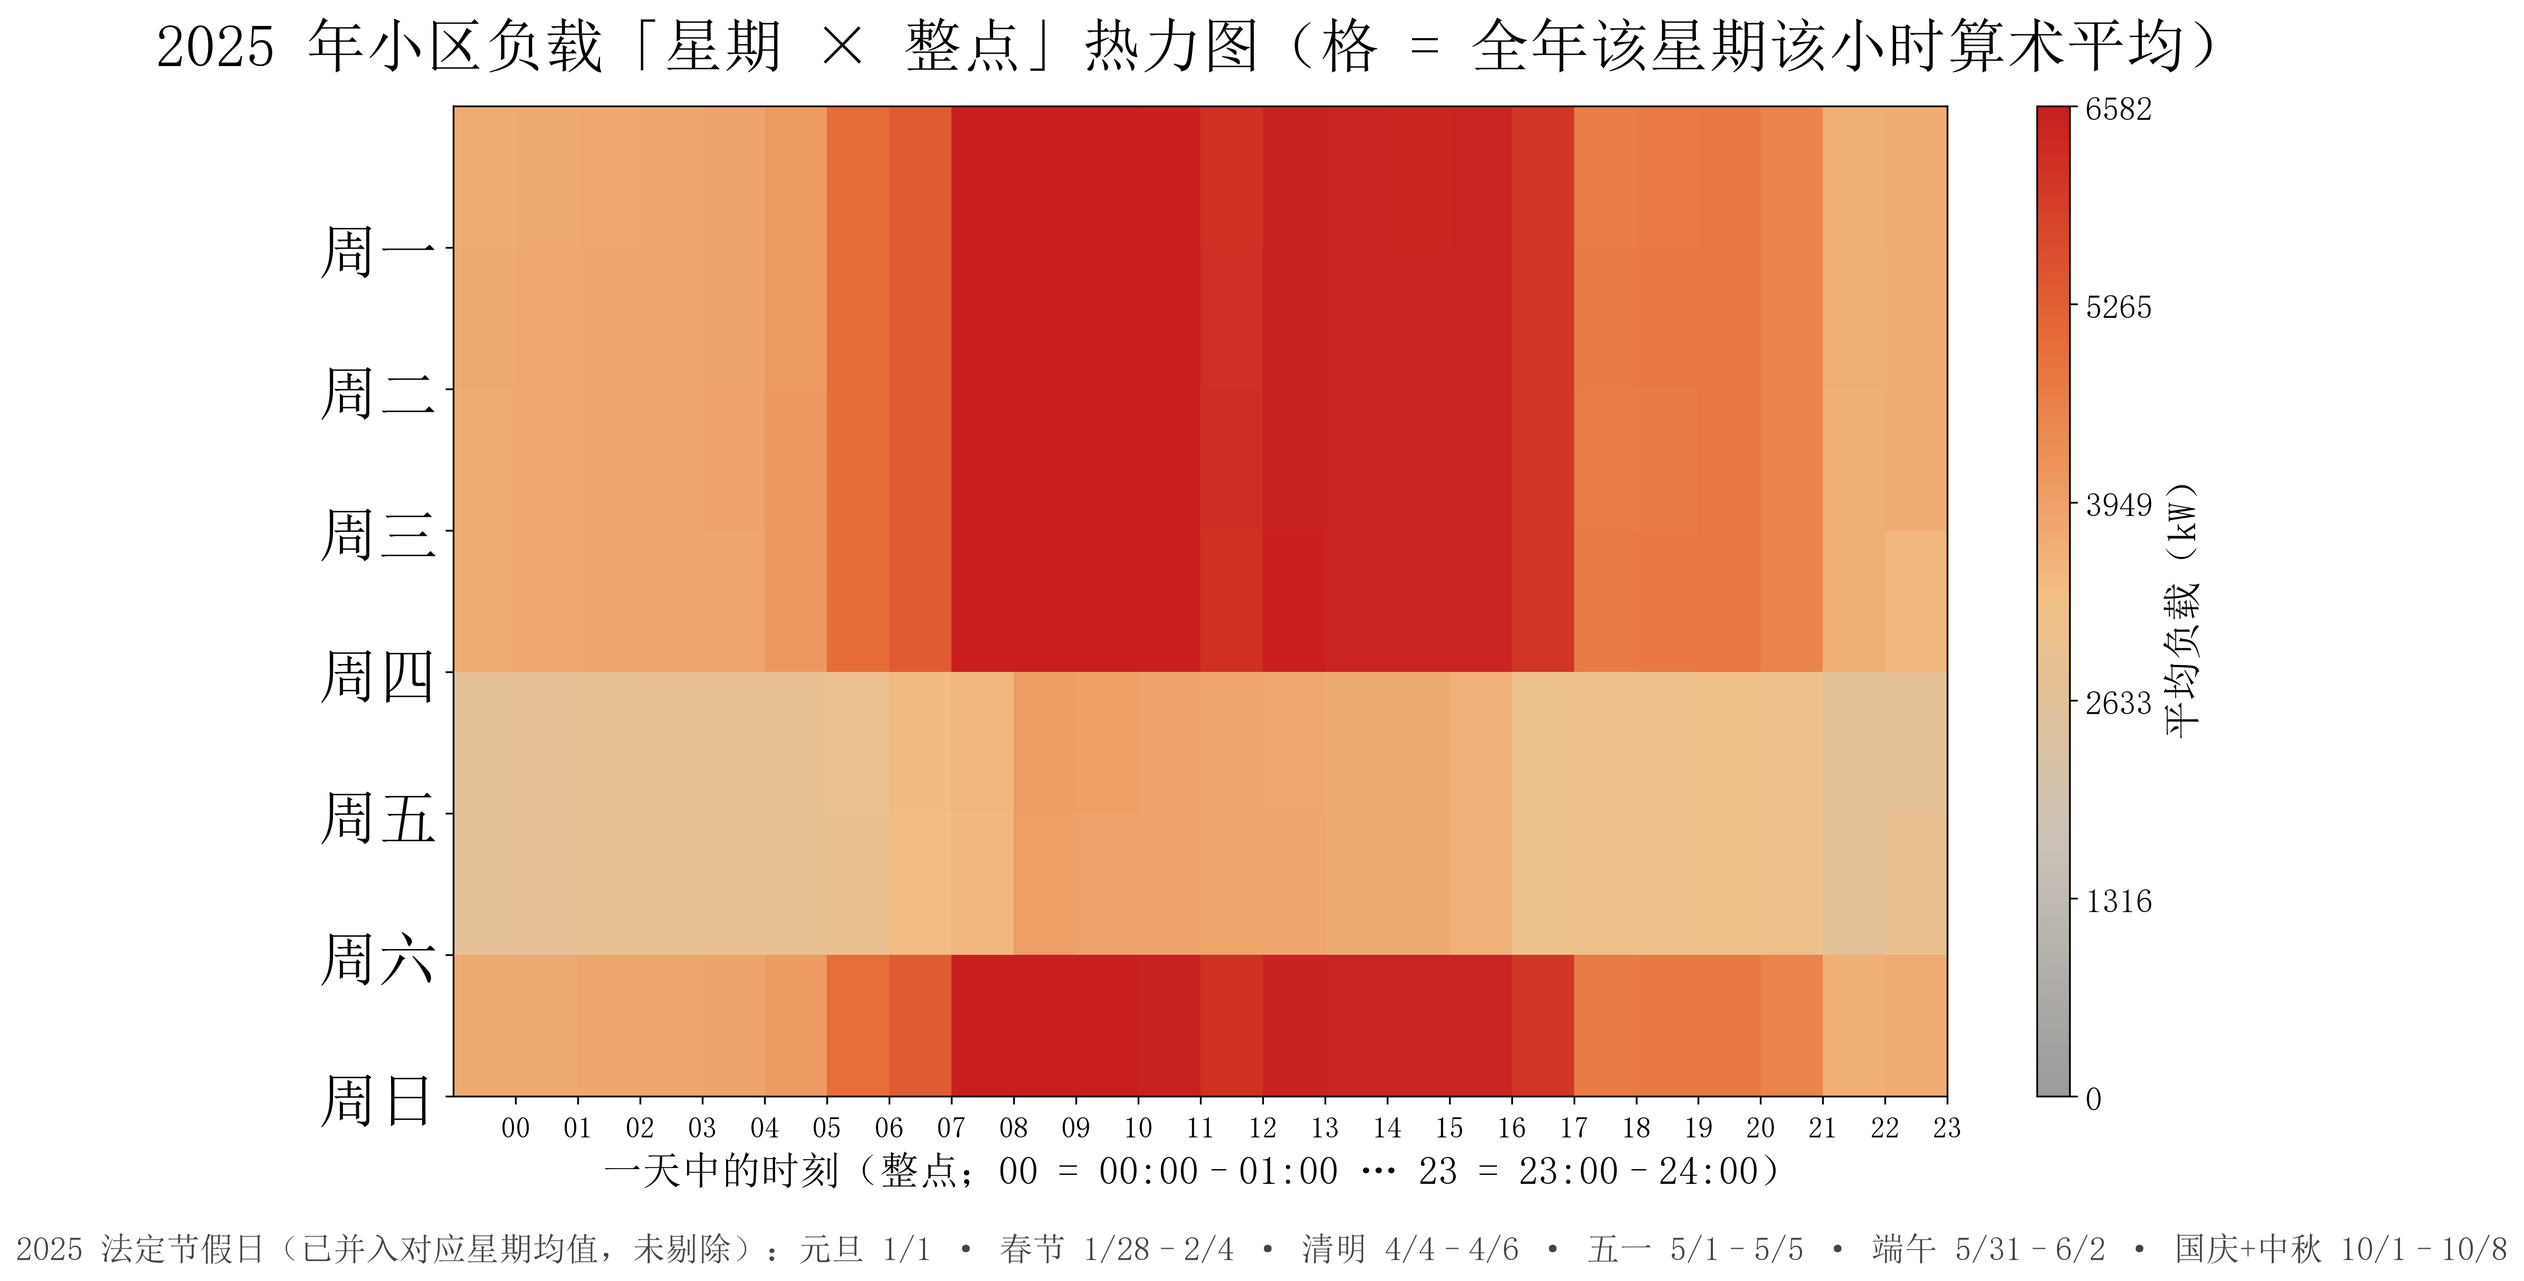
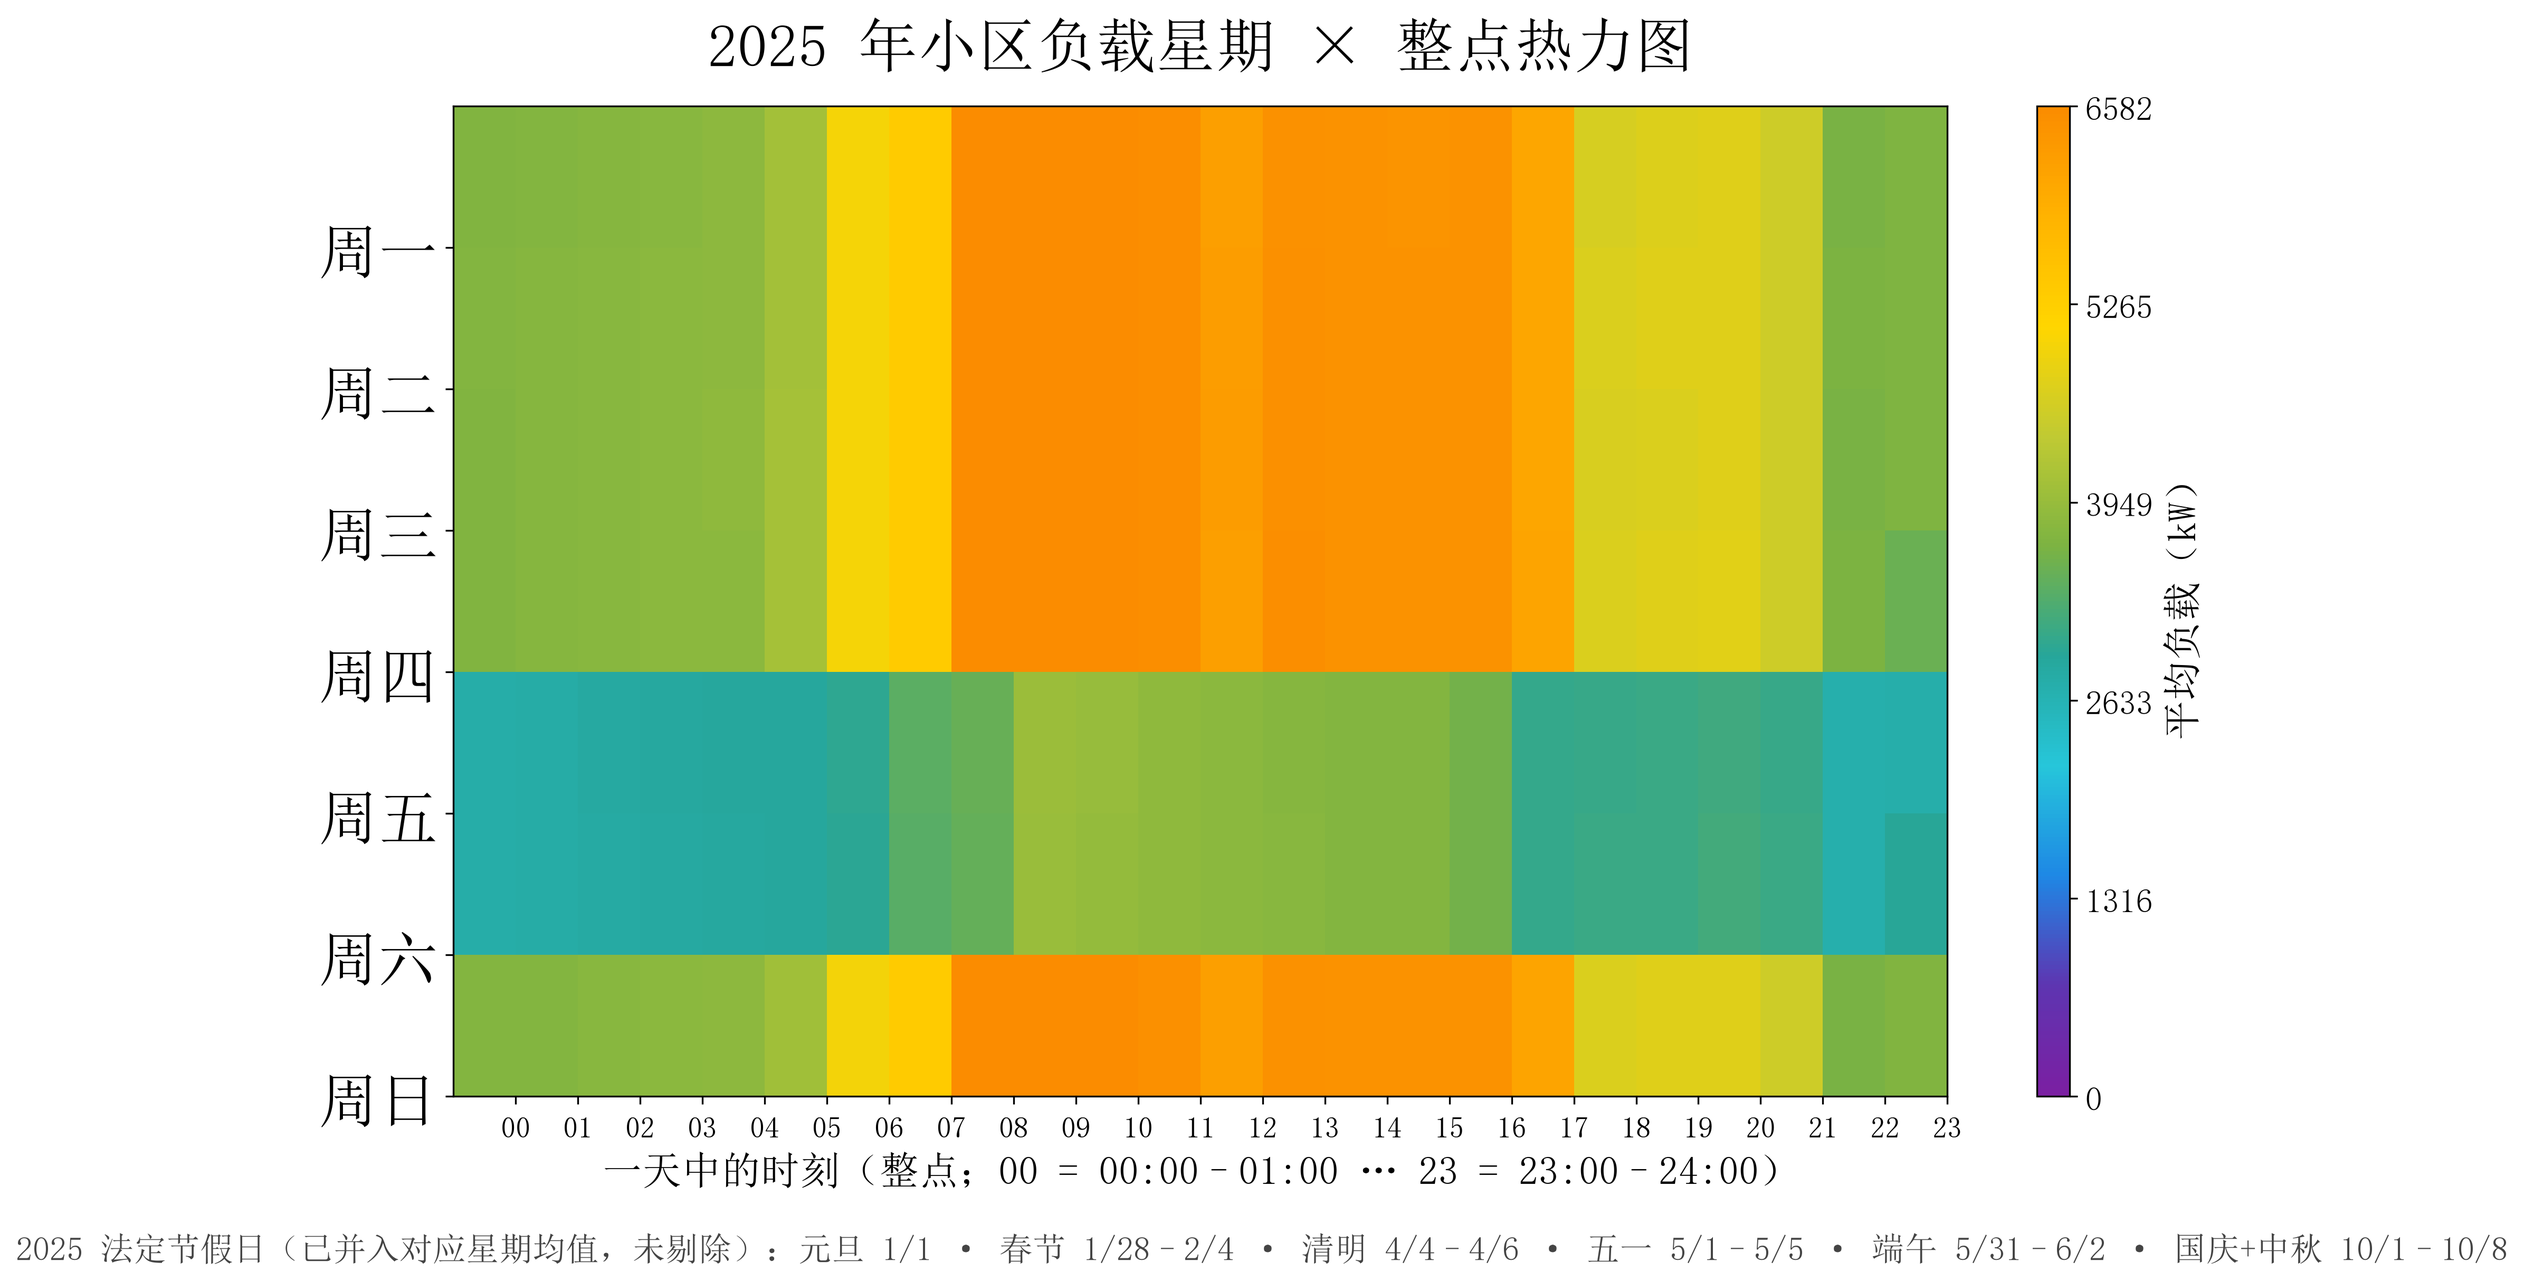
同步：Q2 图片与脚本更新

diff --git a/Q2/问题二_光伏与负载热力图.py b/Q2/问题二_光伏与负载热力图.py
@@ -30,8 +30,8 @@ SEASON_OF_MONTH = {
 SEASON_ANGLE_DEG = {"冬": 15, "春": 105, "夏": 195, "秋": 285}   # 四季中心（四个对角）
 SEASON_BOUND_DEG = [60, 150, 240, 330]                    # 季与季之间的分界线（粗）
 
-# 色标：vmax 压到“白天有光照”区间，让夏季饱和到红端、冬季落在冷色端
-VMAX_AUTO  = True        # True=按“冬季白天 P90”自动；False=用 VMAX_FIXED
+# 色标：vmax 取“全年白天 P99”，只有夏季（左下角）强光时段饱和到橙端、突出夏季光照最强
+VMAX_AUTO  = True        # True=按“全年白天 P99”自动；False=用 VMAX_FIXED
 VMAX_FIXED = 4000.0     # kW，VMAX_AUTO=False 时使用
 DAYLIGHT   = slice(36, 114)   # 白天 06:00–18:50（10 分钟 slot 36..113），用于统计与定 vmax
 
@@ -86,15 +86,14 @@ print(f"数据源：{XLSX} [{pv_sheet}]")
 print(f"日期数：{n_days}，每天时段数：{n_slots}")
 print(f"光伏全年范围：[{values.min():.4f}, {values.max():.4f}] kW")
 
-# 色标 vmax（数据驱动，让夏季饱和、冬季铺满下段 → 放大季节差异）
+# 色标 vmax（数据驱动）：取全年白天 P99 —— 仅夏季强光时段触及橙端、突出左下角夏季区
 if VMAX_AUTO:
-    winter_mask = np.isin(months_of_day, [12, 1, 2])
-    winter_day = values[winter_mask][:, DAYLIGHT].ravel()
-    winter_day = winter_day[winter_day > 0]
-    VMAX = float(np.quantile(winter_day, 0.90))
+    day_all = values[:, DAYLIGHT].ravel()          # 全年白天 06:00–18:50 全部时段
+    day_all = day_all[np.isfinite(day_all)]
+    VMAX = float(np.quantile(day_all, 0.99))
 else:
     VMAX = float(VMAX_FIXED)
-print(f"色标范围：[0, {VMAX:.1f}] kW（{'自动=冬季白天 P90' if VMAX_AUTO else '固定'}）；0 kW=冷端（蓝）、强光=红端（蓝→红彩色过渡）")
+print(f"色标范围：[0, {VMAX:.1f}] kW（{'自动=全年白天 P99，夏季强光饱和到橙端' if VMAX_AUTO else '固定'}）；0 kW=浅灰端（黑夜无光）、非线性分段色阶：中低值加密、高值黄橙拉开；色标刻度数字已隐藏")
 
 # 每季白天典型功率（供报告引用“夏/冬典型峰谷”）
 for sname in ["冬", "春", "夏", "秋"]:
@@ -114,17 +113,26 @@ theta_edges = theta_edges / theta_edges[-1] * 2 * np.pi    # 归一到 [0, 2π]
 inner_radius, outer_radius = 1.5, 3.0
 radius_edges = np.linspace(inner_radius, outer_radius, n_slots + 1)
 
-# ---------- 数据 → 网格 + 冷→热彩色带（0 kW=冷端蓝，强光=热端红，全程有色相、无灰）----------
-C = values.T                                                # (时段, 天)
-Cm = C                                                     # 不 mask；0 落在冷端蓝，与色标图例一致
-
-# 冷（深蓝）→ 蓝 → 青 → 黄绿 → 黄 → 橙 → 热（红/深红）；顶端红，无灰
+# ---------- 非线性分段色带（橙→浅灰）：低值=浅灰（黑夜/0 kW），中间青绿收窄加密，高值黄橙拉开 ----------
+# 分段位置手工控制：0~15% 浅灰（黑夜/弱光）→ 15~40% 灰蓝→蓝→青→绿（收窄）
+# → 40~62% 黄绿过渡（中低值加密，光伏出力大部分集中于此）→ 62~100% 黄→橙→深橙（高功率拉开）
 cmap = LinearSegmentedColormap.from_list(
-    "cold2hot_pv",
-    ["#0b1e6f", "#1e88e5", "#26c6da", "#aeea00", "#ffd600", "#fb8c00", "#e53935", "#b71c1c"],
+    "pv_piecewise_orange",
+    [
+        (0.00, "#9e9e9e"), (0.08, "#8a8a8a"), (0.15, "#7f92bd"),
+        (0.22, "#64b5f6"), (0.30, "#26c6da"), (0.38, "#26a69a"),
+        (0.46, "#66bb6a"), (0.54, "#9ccc65"), (0.62, "#c0ca33"),
+        (0.70, "#ffd600"), (0.78, "#ffc107"), (0.86, "#ffa000"),
+        (0.93, "#fb8c00"), (1.00, "#f4511e"),
+    ],
     N=256,
 )
-cmap.set_bad("#0b1e6f")   # 保险：任何残留 mask 也归到冷端蓝（非灰）
+cmap.set_bad("#9e9e9e")   # 保险：任何残留 mask 也归到灰色端（黑夜）
+
+# ---------- 数据 → 网格 + 彩色带（黑夜/0 kW=浅灰端，昼夜分界一眼看清）----------
+C = values.T                                                # (时段, 天)
+Cm = C                                                      # 不 mask；0（黑夜无光）落在色带浅灰端
+# 色带的非线性已由上面的分段位置控制，norm 用线性即可
 norm = Normalize(vmin=0.0, vmax=VMAX)
 
 
@@ -136,7 +144,7 @@ fig, ax = plt.subplots(
 )
 ax.set_theta_zero_location("N")
 ax.set_theta_direction(-1)
-ax.set_ylim(0, outer_radius + 0.9)          # 外圈留出季节标签空间
+ax.set_ylim(0, outer_radius + 1.10)         # 外圈留出更大的季节标签空间
 ax.grid(False)
 ax.spines["polar"].set_visible(False)
 
@@ -157,29 +165,35 @@ for a in map(np.deg2rad, SEASON_BOUND_DEG):   # 季界粗线
             color="white", linewidth=1.6, alpha=0.95)
 
 
-# ---------- 季节标签（四个角）与月份小标签 ----------
+# ---------- 季节标签（更靠外，与月份数字拉开距离）与月份数字 ----------
 lb_box = dict(facecolor="white", edgecolor="none", alpha=0.85, pad=2)
-for name, deg in SEASON_ANGLE_DEG.items():    # 四季大标签（外）
+for name, deg in SEASON_ANGLE_DEG.items():    # 四季大标签（最外圈）
     a = np.deg2rad(deg)
-    ax.text(a, outer_radius + 0.42, name,
+    ax.text(a, outer_radius + 0.80, name,
             ha="center", va="center",
             fontsize=27, fontweight="bold", color="#000000", bbox=lb_box)
-for m in range(1, 13):                        # 月份小标签（内）
+for m in range(1, 13):                        # 月份数字（无白底，向外挪一点）
     a = np.deg2rad((m - 0.5) * 30)
-    ax.text(a, outer_radius + 0.16, str(m),
+    ax.text(a, outer_radius + 0.20, str(m),
             ha="center", va="center",
-            fontsize=12, color="#000000", bbox=lb_box)
+            fontsize=22, fontweight="bold", color="#000000")
+
+# 去掉极角（度数）刻度信息（45°、135° 等无用标签）
+ax.set_xticks([])
+# 去掉径向默认刻度数字（0.5、1、1.5 等），时间圈线为手工绘制、无需刻度
+ax.set_yticks([])
 
 
-# ---------- 日内时间刻度 ----------
+# ---------- 日内时间刻度（仅 06/12/18，角度错开避免重叠；0点/24点标签去掉） ----------
 hours = np.array([0, 6, 12, 18, 24])
 time_radii = inner_radius + hours / 24 * (outer_radius - inner_radius)
-ax.set_yticks(time_radii)
-ax.set_yticklabels([f"{h:02d}:00" for h in hours], fontsize=13.5, color="#000000")
-ax.set_rlabel_position(80)
 
-for label in ax.get_yticklabels():
-    label.set_bbox(dict(facecolor="white", edgecolor="none", alpha=0.8, pad=1))
+time_label_angle = {6: 105, 12: 80, 18: 55}   # 三个时间标签角度错开（0=N 顺时针）
+for h, a_deg in time_label_angle.items():
+    r = inner_radius + h / 24 * (outer_radius - inner_radius)
+    ax.text(np.deg2rad(a_deg), r, f"{h:02d}:00",
+            ha="center", va="center", fontsize=14, color="#000000",
+            bbox=dict(facecolor="white", edgecolor="none", alpha=0.8, pad=1.5))
 
 circle_angles = np.linspace(0, 2 * np.pi, 721)
 for radius in time_radii:
@@ -188,26 +202,27 @@ for radius in time_radii:
 
 
 # ---------- 标题、中心说明和色标 ----------
-ax.text(0.5, 0.52, str(YEAR), transform=ax.transAxes,
+ax.text(0.5, 0.50, str(YEAR), transform=ax.transAxes,
         ha="center", va="center", fontsize=45, fontweight="bold")
-ax.text(0.5, 0.44, "小区光伏\n内 → 外：00:00 → 24:00",
-        transform=ax.transAxes, ha="center", va="center",
-        fontsize=16.5, linespacing=1.7)
 ax.set_title(f"{YEAR} 年小区光伏出力环形热力图",
              fontsize=27, pad=30)
 
 colorbar = fig.colorbar(mesh, ax=ax, pad=0.10, shrink=0.72, aspect=28)
 colorbar.set_label("光伏功率（kW）", fontsize=18)
-colorbar.set_ticks(np.linspace(0, VMAX, 6))
+colorbar.set_ticks([])          # 删除出力大小刻度数字，色带只作强弱示意
 
-ax.legend(handles=[Patch(facecolor="#0b1e6f", label="无光照 / 0 kW（冷端）")],
+ax.legend(handles=[Patch(facecolor="#9e9e9e", edgecolor="#000000", label="黑夜 / 无光照（0 kW，中灰）")],
           loc="lower left", bbox_to_anchor=(-0.05, -0.05), frameon=False)
 
 fig.savefig(OUTPUT, dpi=300, bbox_inches="tight", facecolor="white")    # 图1
+# 保存与弹窗同步：先落盘，立即非阻塞弹出窗口（无需关闭窗口等待）
+plt.show(block=False)
+plt.pause(0.5)
 
 
 # ============================================================
 #  图2：小区负载「星期 × 整点」热力图（7 × 24，格 = 全年该星期该小时均值）
+#  说明：网格图（图2）保持原样，不在本次修改范围内
 # ============================================================
 wb_l = openpyxl.load_workbook(XLSX, read_only=True)
 load_sheet = next(s for s in wb_l.sheetnames if "负载" in s)
@@ -241,13 +256,18 @@ for wd in range(7):
 LVMAX = float(np.quantile(L_hourly.ravel(), 0.90))
 WD_NAMES = ["周一", "周二", "周三", "周四", "周五", "周六", "周日"]
 print(f"\n[负载图] 数据源：{XLSX} [{load_sheet}]；7×24 格，格 = {YEAR} 全年该星期该小时均值")
-print(f"[负载图] 色标范围：[0, {LVMAX:.1f}] kW（全年负载 P90）；低负载=冷端（蓝）、高峰=红端（蓝→红彩色过渡）")
+print(f"[负载图] 色标范围：[0, {LVMAX:.1f}] kW（全年负载 P90）；低负载=紫端、高峰=橙端（与图1同一色相渐变色带）")
 for wd, wdn in enumerate(WD_NAMES):
     print(f"    {wdn}：日均 {load_avg[wd].mean():.1f} kW / 峰值 {load_avg[wd].max():.1f} kW")
 
-cmap2 = LinearSegmentedColormap.from_list("cold2hot_load",
-    ["#0b1e6f", "#1e88e5", "#26c6da", "#aeea00", "#ffd600", "#fb8c00", "#e53935", "#b71c1c"], N=256)
-cmap2.set_bad("#0b1e6f")
+# 图2 使用独立色带实例（同为橙→紫色相渐变，但与图1互不共享、标尺用负载自己的 LVMAX）
+cmap2 = LinearSegmentedColormap.from_list(
+    "hue_orange2purple_load",
+    ["#7b1fa2", "#5e35b1", "#1e88e5", "#26c6da", "#26a69a",
+     "#7cb342", "#c0ca33", "#ffd600", "#ffb300", "#fb8c00"],
+    N=256,
+)
+cmap2.set_bad("#7b1fa2")
 
 fig2, ax2 = plt.subplots(figsize=(12, 7.5), layout="constrained")
 im2 = ax2.imshow(load_avg, cmap=cmap2, norm=Normalize(0.0, LVMAX),
@@ -267,9 +287,12 @@ cbar2.ax.tick_params(labelsize=15)
 # 节假日标注（图下方一行，说明这些天已并入对应星期均值、未单独剔除）
 hol_line = f"2025 法定节假日（已并入对应星期均值，未剔除）：{HOLIDAYS_2025}"
 fig2.text(0.5, -0.03, hol_line, transform=fig2.transFigure,
-          ha="center", va="top", fontsize=15, color="#000000")
+          ha="center", va="top", fontsize=15, color="#444444")
 
 fig2.savefig(OUTPUT2, dpi=300, bbox_inches="tight", facecolor="white")   # 图2
+# 保存与弹窗同步（图2 同样先落盘、立即弹出）
+plt.show(block=False)
+plt.pause(0.5)
 
 
 # ---------- 收尾 ----------

diff --git a/Q4/.workbuddy/memory/2026-09-12.md b/Q4/.workbuddy/memory/2026-09-12.md
@@ -1,0 +1,12 @@
+# 2026-09-12
+
+- Q2 光伏环形热力图（问题二_光伏与负载热力图.py）：应用户要求把黑夜/0 kW 从深蓝改为橙色系——colormap 改为 浅橙#ffe3c2 → 深橙#e65100（orange_pv），set_bad 同步浅橙，图例改为「黑夜 / 无光照（0 kW，浅橙）」。已通过 py_compile 语法检查；按用户硬性要求未在本机运行脚本（本机无 numpy/matplotlib），由用户在目标机自行执行重出图。
+- 追加修改（同日第二轮）：应用户要求把色带改为完整色相渐变——起点橙 #fb8c00（黑夜/0 kW 端）→ 黄→黄绿→绿→青→蓝→紫 #7b1fa2（强光顶端），cmap 名 hue_orange2purple，set_bad 同步橙端，图例改「黑夜 / 无光照（0 kW，橙端）」。已过 py_compile，未本机运行。
+- 第三轮：色带方向反转——黑夜/0 kW=紫端 #7b1fa2，强光/高值=橙端 #fb8c00（橙→紫从高到低）；图2 负载格子图弃用灰→红色带，改为与图1共用同一条橙→紫色相渐变（cmap2 = cmap），set_bad 同步紫端，图例/打印文案同步。已过 py_compile，未本机运行。
+- 第四轮：色标分度值改为全年白天 P99（原为冬季白天 P90）——只有夏季左下角强光时段饱和到橙端，其余季节落在渐变中段，突出夏季光照最强；打印文案同步。已过 py_compile，未本机运行。
+- 第五轮（仅图1环形图）：① savefig 后立即 plt.show(block=False)+pause，保存与弹窗同步；② 去掉 00:00/24:00 时间标签（仅留06/12/18）；③ 月份数字 fontsize 12→40 加粗；④ ax.set_xticks([]) 去掉度数刻度；⑤ 时间标签改为手动 text 并按角度 105/80/55 错开；⑥ norm 改 PowerNorm(gamma=1.6) 拉伸高功率区分度。图2：改回独立色带实例（同渐变、不共享对象），标尺仍用负载 LVMAX，不受图1影响。已过 py_compile，未本机运行。
+- 第六轮（图1）：① 月份数字 40→22；② 删除环中心「内 → 外：00:00 → 24:00」文字（YEAR 保留并居中 0.50）；③ 图1 色标低端由紫色改为深灰渐变 #262626→#757575→过渡蓝→…→橙（cmap 改名 hue_orange2gray，set_bad #262626），图例色块改深灰、文案改「0 kW，深灰」。图2 保持独立紫色渐变不变。已过 py_compile，未本机运行。
+- 第七轮（图1）：① 春夏秋冬标签外移至 outer+0.80、月份贴外缘 outer+0.14、ylim 扩至 +1.10，解决拥挤；② colorbar.set_ticks([]) 删除出力刻度数字；③ 零值端由深灰改浅灰 #f2f2f2 渐变（昼夜分界清晰），图例色块同步浅灰；④ 色带改非线性分段（0-15%浅灰、15-40%灰蓝→蓝→青→绿收窄、40-62%黄绿加密中低值、62-100%黄→橙→深橙拉开），norm 回线性 Normalize，删除 PowerNorm 导入。图2 未动。已过 py_compile，未本机运行。
+- 第八轮：零值端灰色加深一档 #f2f2f2→#bdbdbd（8% 处 #a8a8a8，15% 过渡 #8fa0c4），set_bad/图例同步 #bdbdbd、文案改中灰。已过 py_compile，未本机运行。
+- 第九轮：零值灰再加深 #bdbdbd→#9e9e9e（8% #8a8a8a、15% #7f92bd），set_bad/图例同步；月份数字去掉白色底衬 bbox，径向外移 outer+0.14→0.20。已过 py_compile，未本机运行。
+- 第十轮：ax.set_yticks([]) 清除径向默认刻度数字（0.5/1/1.5 等）。已过 py_compile，未本机运行。
